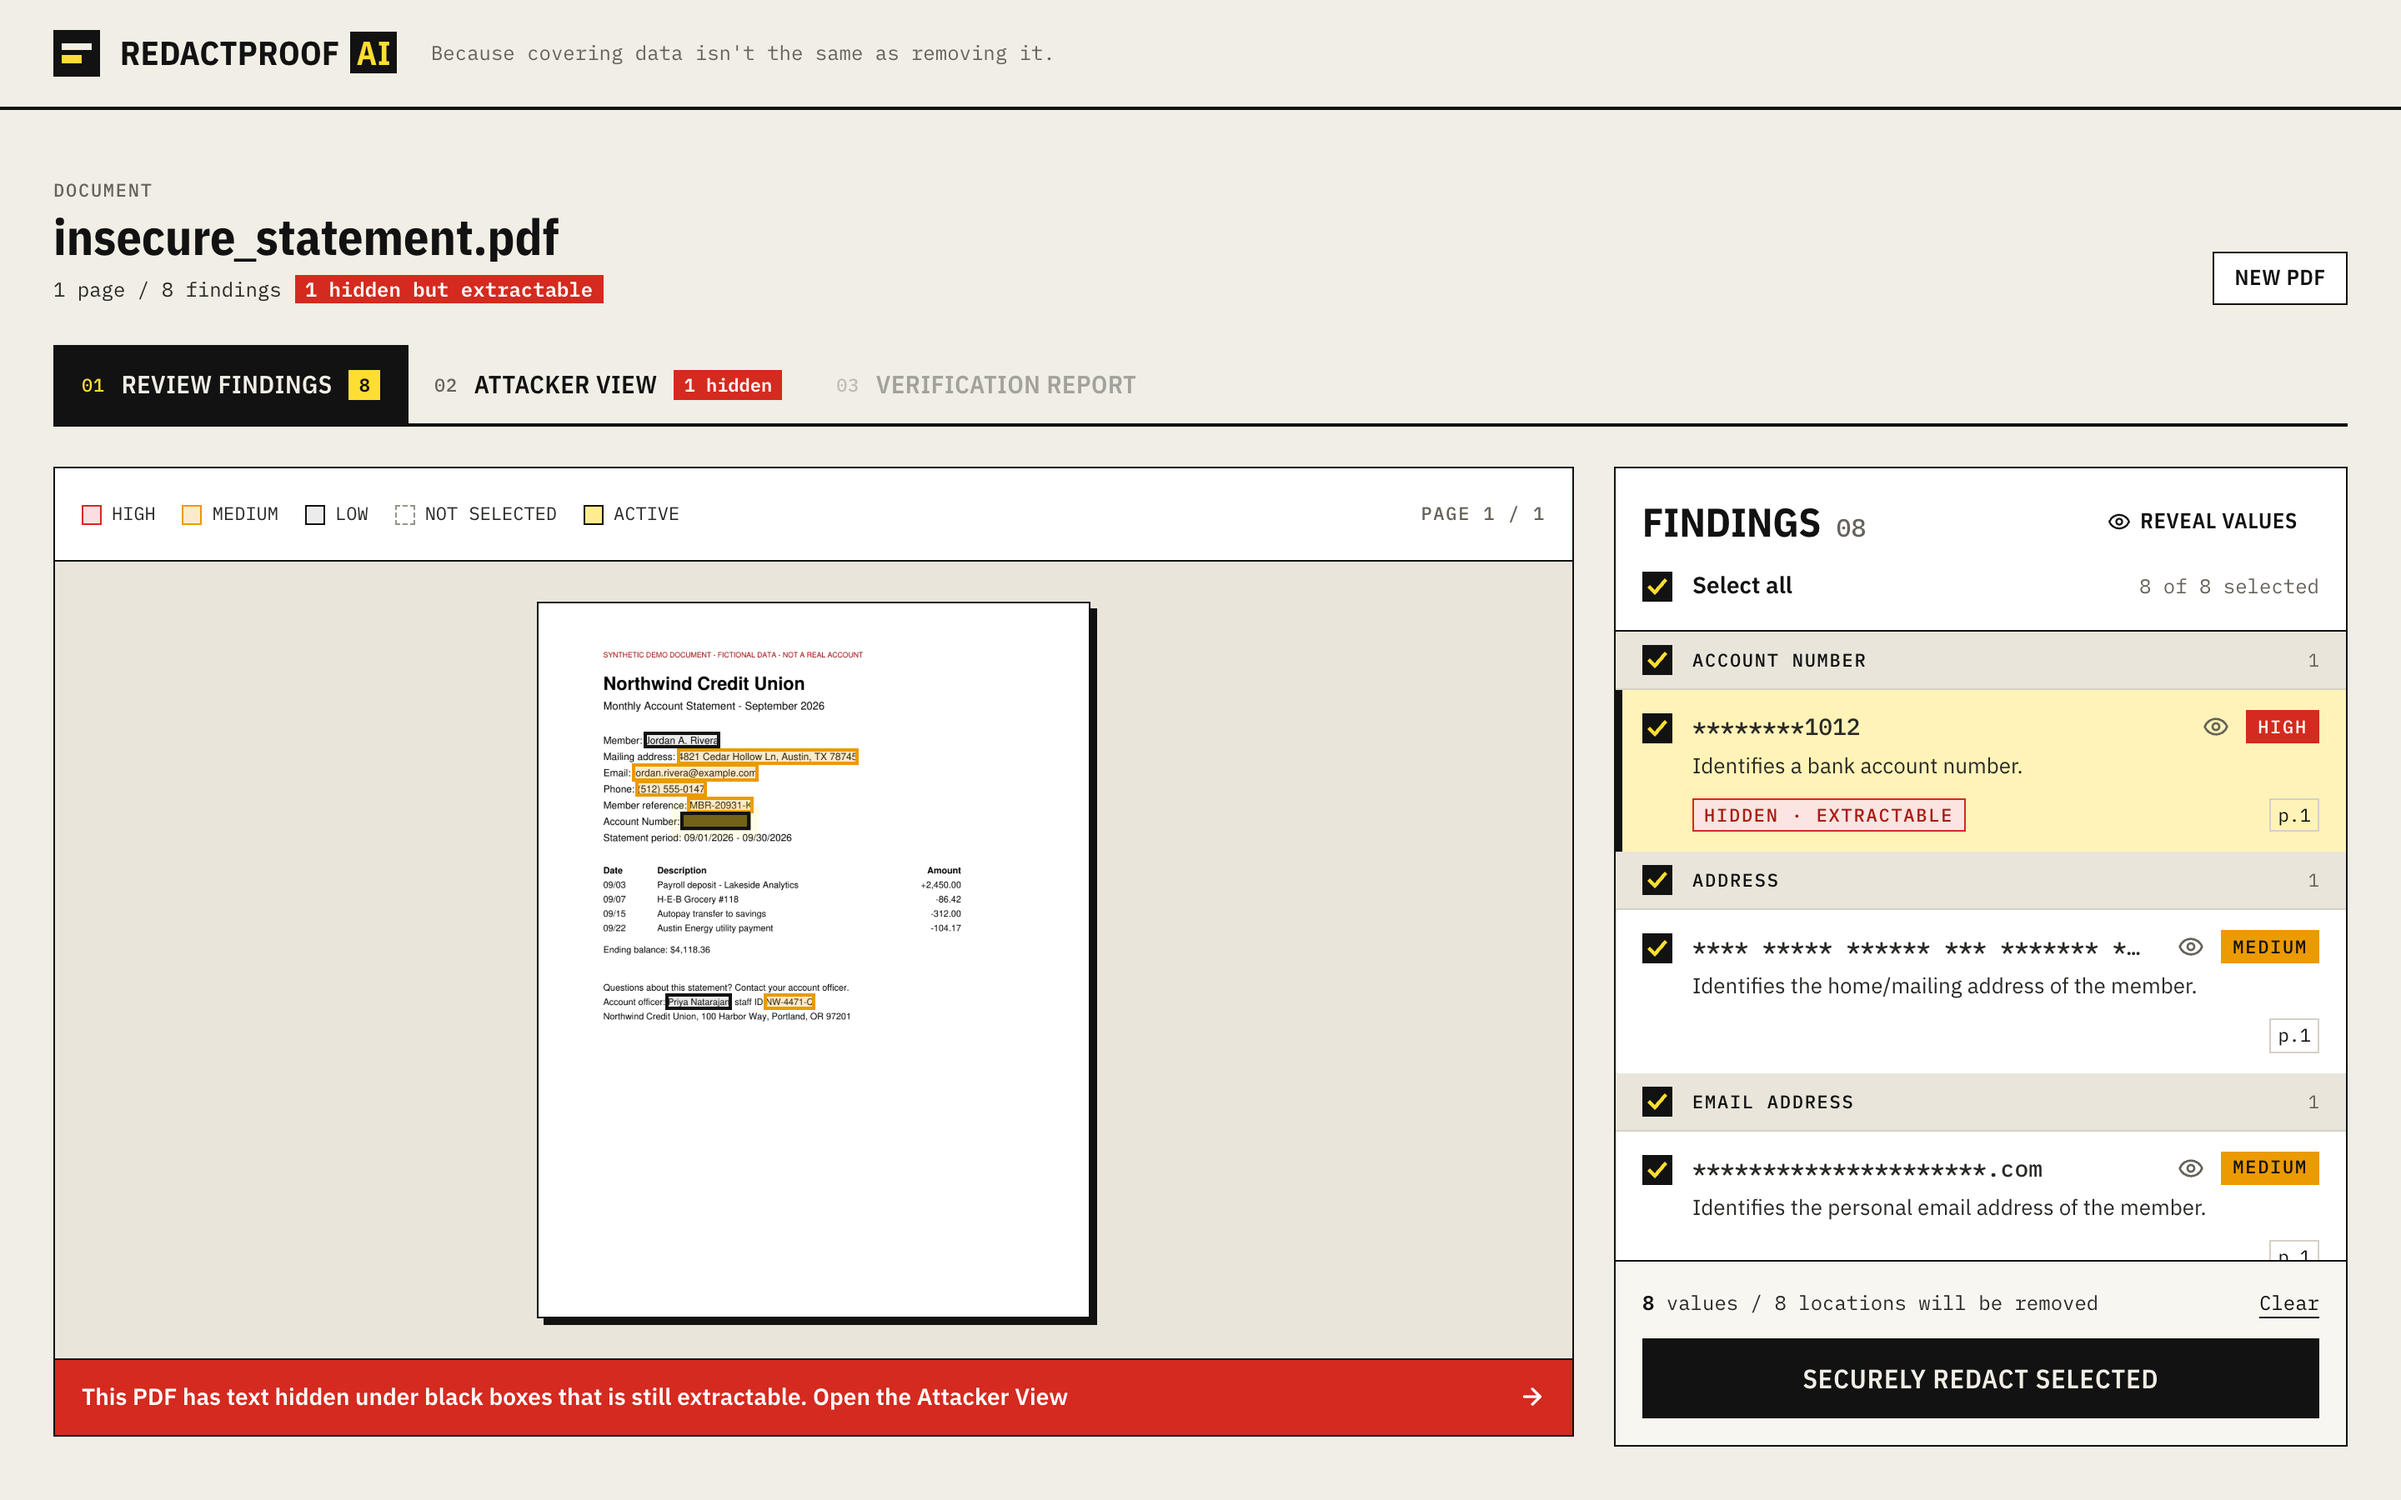
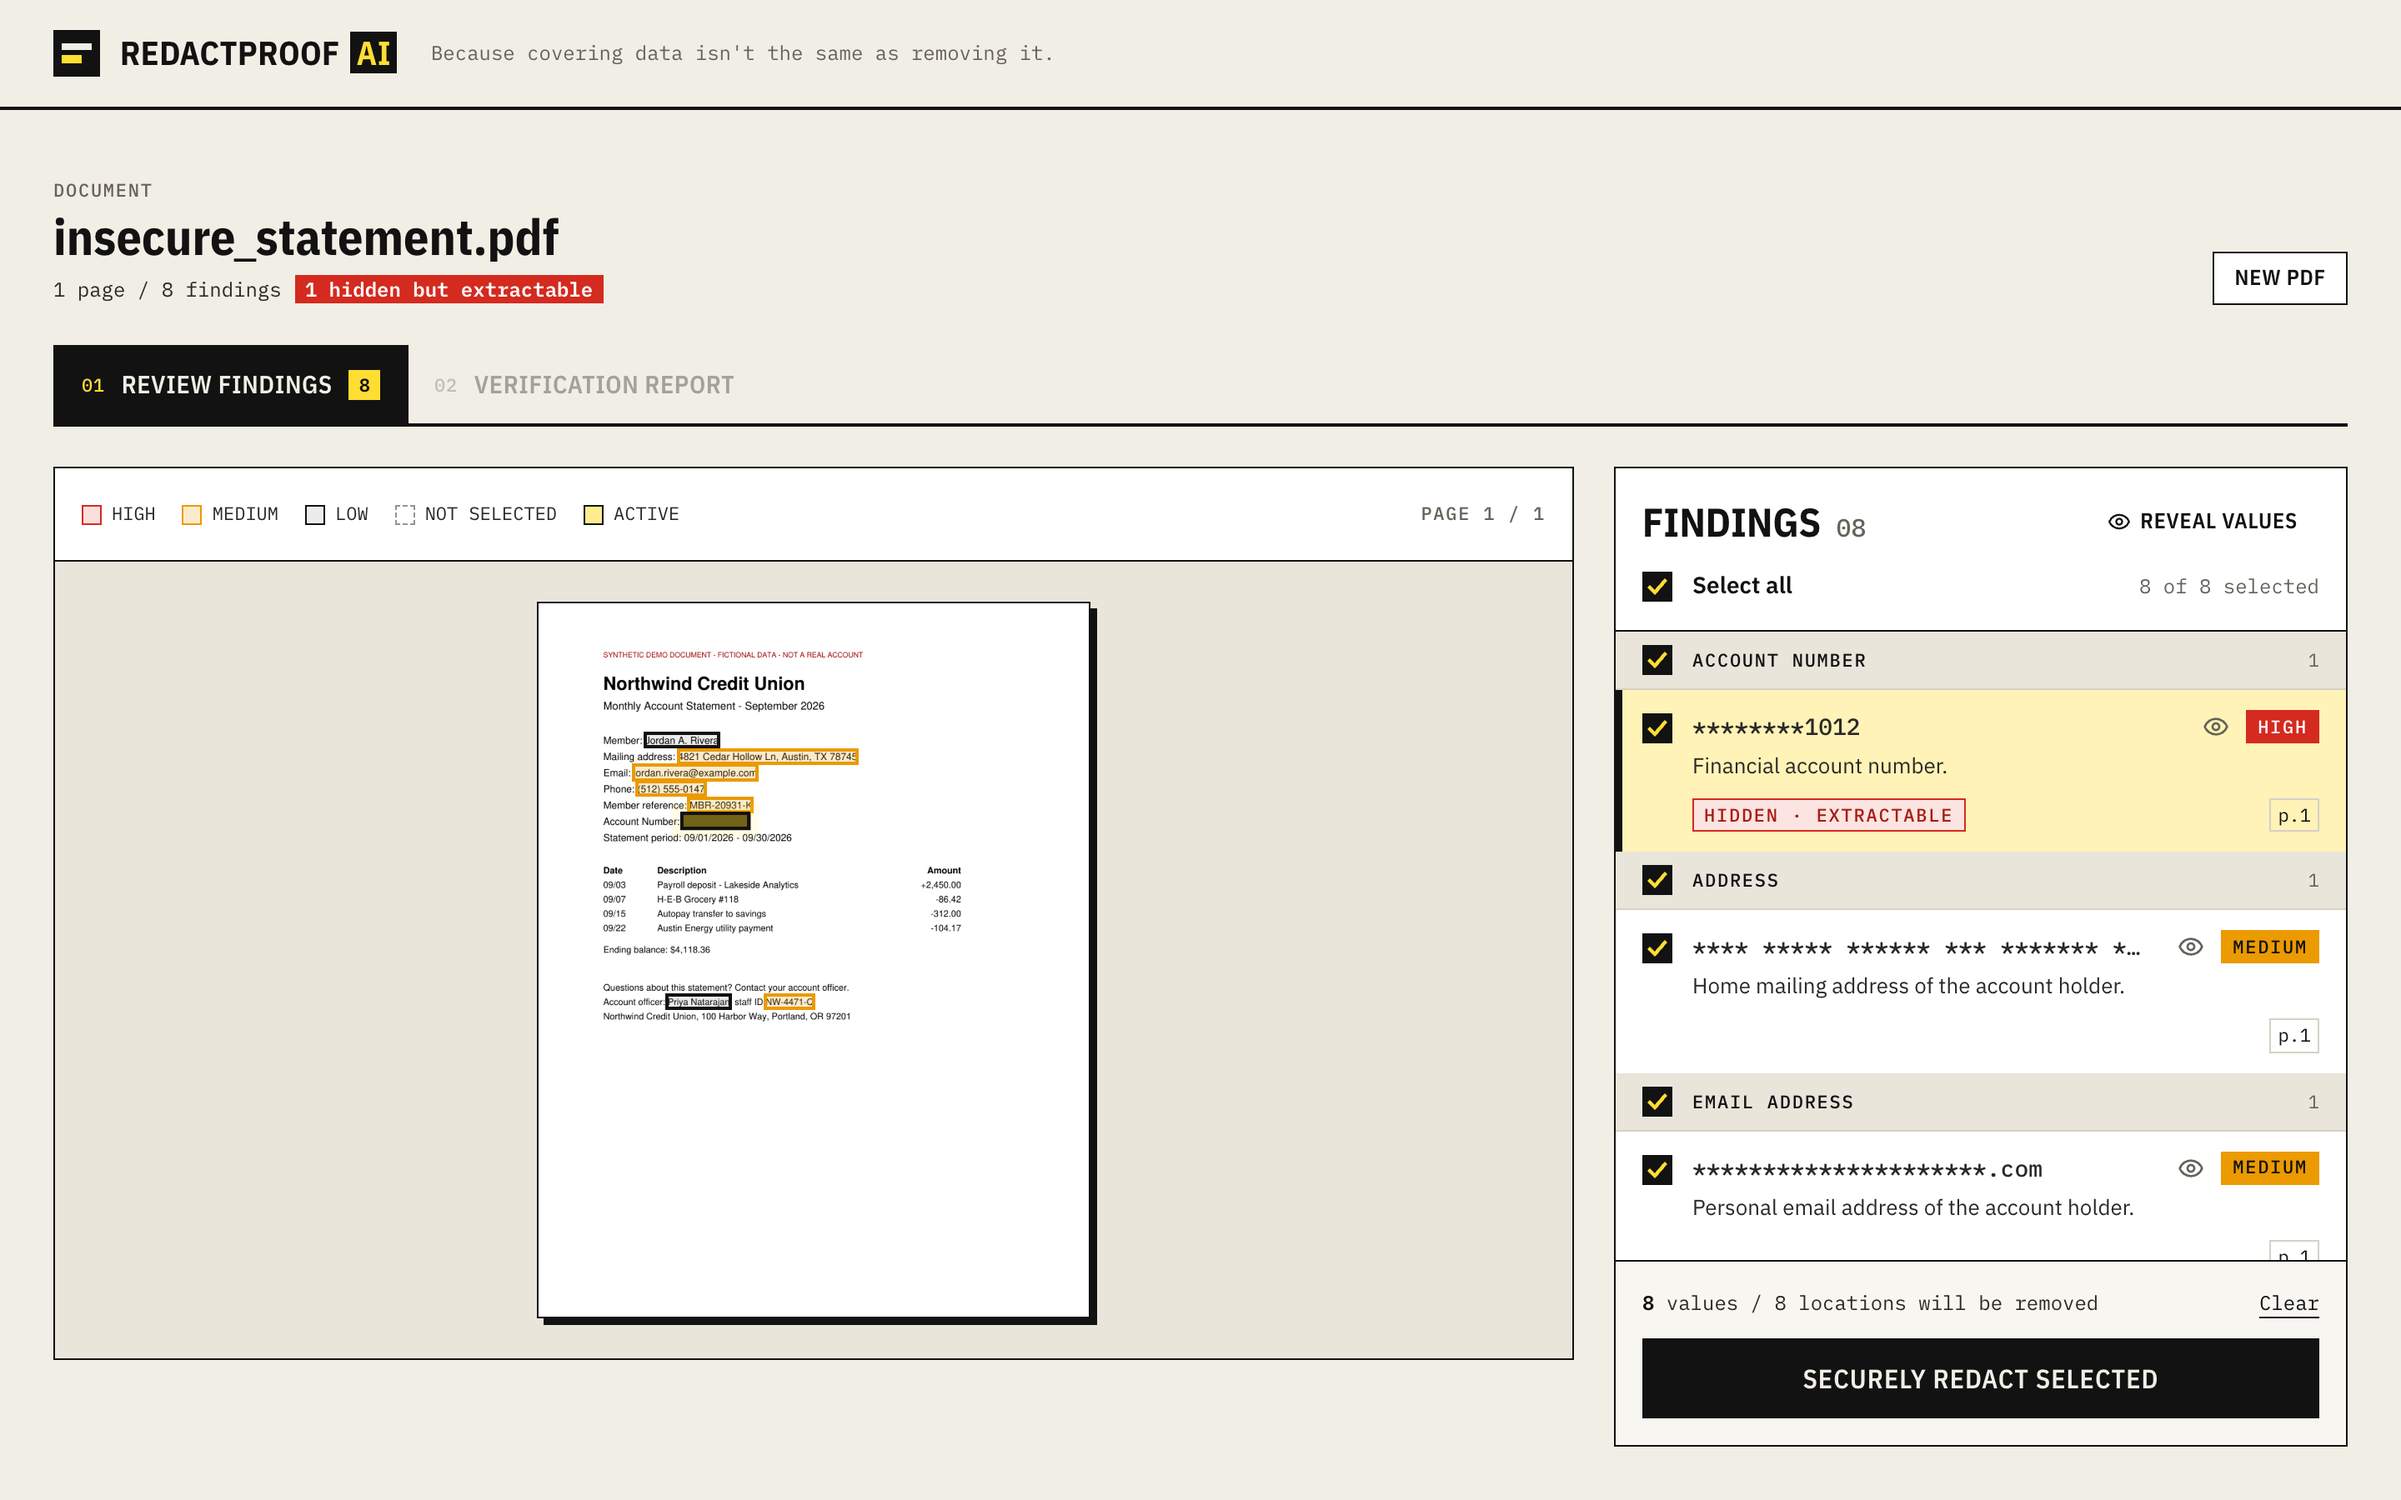
Remove the Attacker View tab
- Drop the Attacker View (visual vs. extracted text, reveal, before/after
  text) and the review-screen banner that linked to it
- Tabs are now Review findings and Verification report
- Hidden-but-extractable findings are still labeled and counted
- Remove helpers only the Attacker View used; update README, tests,
  screenshots

diff --git a/frontend/src/components/Workspace.tsx b/frontend/src/components/Workspace.tsx
@@ -1,15 +1,13 @@
 import { useRef, useState, type KeyboardEvent } from 'react'
-import { ArrowRight } from 'lucide-react'
 import type { AnalysisResponse, RedactionResult } from '../api/types'
 import { api } from '../api/client'
-import { AttackerView } from './AttackerView'
 import { DocumentViewer } from './DocumentViewer'
 import { FindingsSidebar } from './FindingsSidebar'
 import { RedactionControls } from './RedactionControls'
 import { VerificationReport } from './VerificationReport'
 import { Button, PageNav, Swatch, cx } from './ui'
 
-export type Tab = 'review' | 'attacker' | 'report'
+export type Tab = 'review' | 'report'
 
 interface WorkspaceProps {
   analysis: AnalysisResponse
@@ -29,7 +27,6 @@ interface TabDef {
   id: Tab
   label: string
   badge?: string
-  alert?: boolean
   disabled?: boolean
 }
 
@@ -51,7 +48,6 @@ export function Workspace(props: WorkspaceProps) {
 
   const tabs: TabDef[] = [
     { id: 'review', label: 'Review findings', badge: String(analysis.findings.length) },
-    { id: 'attacker', label: 'Attacker view', badge: hiddenCount > 0 ? `${hiddenCount} hidden` : undefined, alert: true },
     { id: 'report', label: 'Verification report', disabled: !result },
   ]
 
@@ -109,16 +105,6 @@ export function Workspace(props: WorkspaceProps) {
                   reservedHeight={470}
                 />
               </div>
-              {hiddenCount > 0 && (
-                <button
-                  type="button"
-                  onClick={() => onTabChange('attacker')}
-                  className="group flex w-full items-center gap-3 border-t-[1.5px] border-ink bg-danger px-4 py-3 text-left text-[14px] font-semibold text-white hover:bg-danger-ink"
-                >
-                  <span className="flex-1">This PDF has text hidden under black boxes that is still extractable. Open the Attacker View</span>
-                  <ArrowRight className="size-4 shrink-0 transition-transform group-hover:translate-x-1" strokeWidth={2.5} aria-hidden />
-                </button>
-              )}
             </section>
             <FindingsSidebar
               findings={analysis.findings}
@@ -149,7 +135,6 @@ export function Workspace(props: WorkspaceProps) {
             />
           </div>
         )}
-        {tab === 'attacker' && <AttackerView analysis={analysis} result={result} page={page} onPageChange={setPage} />}
         {tab === 'report' && result && (
           <VerificationReport
             analysis={analysis}
@@ -180,7 +165,7 @@ function TabBar({ tabs, value, onChange }: { tabs: TabDef[]; value: Tab; onChang
 
   return (
     <div role="tablist" aria-label="Workspace" onKeyDown={onKeyDown} className="flex overflow-x-auto border-b-2 border-ink">
-      {tabs.map(({ id, label, badge, alert, disabled }, i) => {
+      {tabs.map(({ id, label, badge, disabled }, i) => {
         const selected = id === value
         return (
           <button
@@ -209,7 +194,7 @@ function TabBar({ tabs, value, onChange }: { tabs: TabDef[]; value: Tab; onChang
               <span
                 className={cx(
                   'px-1.5 py-px font-mono text-[11px] font-semibold tracking-normal normal-case',
-                  alert ? 'bg-danger text-white' : selected ? 'bg-marker text-ink' : 'bg-surface-3 text-ink',
+                  selected ? 'bg-marker text-ink' : 'bg-surface-3 text-ink',
                 )}
               >
                 {badge}

diff --git a/frontend/src/utils/findings.test.ts b/frontend/src/utils/findings.test.ts
@@ -1,6 +1,6 @@
 import { describe, expect, it } from 'vitest'
 import type { Finding } from '../api/types'
-import { bboxToPercent, groupFindings, segmentText, sourceKind } from './findings'
+import { bboxToPercent, groupFindings, sourceKind } from './findings'
 
 function finding(overrides: Partial<Finding>): Finding {
   return {
@@ -33,33 +33,6 @@ describe('bboxToPercent', () => {
   it('clamps padding to the page edges', () => {
     const style = bboxToPercent([0, 0, 612, 792], 612, 792, 4)
     expect(style).toEqual({ left: '0%', top: '0%', width: '100%', height: '100%' })
-  })
-})
-
-describe('segmentText', () => {
-  const account = finding({ id: 'a', text: '987654321012' })
-  const email = finding({ id: 'e', text: 'jo@example.com' })
-
-  it('marks every occurrence of each value', () => {
-    const segments = segmentText('Acct 987654321012\nMail jo@example.com\nAgain 987654321012', [account, email])
-    expect(segments.map((s) => [s.text, s.finding?.id])).toEqual([
-      ['Acct ', undefined],
-      ['987654321012', 'a'],
-      ['\nMail ', undefined],
-      ['jo@example.com', 'e'],
-      ['\nAgain ', undefined],
-      ['987654321012', 'a'],
-    ])
-  })
-
-  it('prefers the longer value when matches overlap', () => {
-    const short = finding({ id: 's', text: '4321' })
-    const segments = segmentText('No. 987654321012', [short, account])
-    expect(segments.map((s) => s.finding?.id)).toEqual([undefined, 'a'])
-  })
-
-  it('returns plain text when nothing matches', () => {
-    expect(segmentText('nothing here', [account])).toEqual([{ text: 'nothing here' }])
   })
 })
 

diff --git a/frontend/src/utils/findings.ts b/frontend/src/utils/findings.ts
@@ -62,39 +62,6 @@ export function bboxToPercent(bbox: BBox, pageWidth: number, pageHeight: number,
   }
 }
 
-export interface TextSegment {
-  text: string
-  finding?: Finding
-}
-
-/**
- * Splits extracted page text into plain runs and runs that are exactly a finding's value.
- * Longer values win when matches overlap.
- */
-export function segmentText(text: string, findings: Finding[]): TextSegment[] {
-  const matches: { start: number; end: number; finding: Finding }[] = []
-  for (const finding of findings) {
-    if (!finding.text) continue
-    let from = 0
-    for (let at = text.indexOf(finding.text, from); at !== -1; at = text.indexOf(finding.text, from)) {
-      matches.push({ start: at, end: at + finding.text.length, finding })
-      from = at + finding.text.length
-    }
-  }
-  matches.sort((a, b) => a.start - b.start || b.end - a.end)
-
-  const segments: TextSegment[] = []
-  let cursor = 0
-  for (const m of matches) {
-    if (m.start < cursor) continue
-    if (m.start > cursor) segments.push({ text: text.slice(cursor, m.start) })
-    segments.push({ text: text.slice(m.start, m.end), finding: m.finding })
-    cursor = m.end
-  }
-  if (cursor < text.length) segments.push({ text: text.slice(cursor) })
-  return segments
-}
-
 export function pagesOf(finding: Finding): number[] {
   return [...new Set(finding.locations.map((l) => l.page))].sort((a, b) => a - b)
 }

diff --git a/frontend/src/components/VerificationReport.tsx b/frontend/src/components/VerificationReport.tsx
@@ -34,7 +34,7 @@ export function VerificationReport({ analysis, result, page, onPageChange, onBac
       <section aria-label="Verification status" className="border-[1.5px] border-ink bg-surface shadow-hard">
         <div className={cx('flex flex-col gap-6 px-6 py-6 md:flex-row md:items-center md:justify-between', passed ? 'bg-success text-white' : 'bg-danger text-white')}>
           <div role={passed ? 'status' : 'alert'}>
-            <p className="tag text-white/75">03 / Verification</p>
+            <p className="tag text-white/75">02 / Verification</p>
             <h2 className="mt-2 font-display text-[34px] leading-none font-bold uppercase sm:text-[44px]">
               {passed ? 'Targeted text verification passed' : 'Verification failed'}
             </h2>

diff --git a/frontend/src/components/ui.tsx b/frontend/src/components/ui.tsx
@@ -147,13 +147,3 @@ export function Logo() {
 export function Swatch({ className }: { className: string }) {
   return <span className={cx('inline-block size-3 shrink-0 border-[1.5px]', className)} aria-hidden />
 }
-
-/** Section heading with an optional index number, e.g. "02 Attacker view". */
-export function SectionTitle({ index, children, className }: { index?: string; children: ReactNode; className?: string }) {
-  return (
-    <h2 className={cx('flex items-baseline gap-3 font-display text-[28px] leading-none font-bold tracking-[-0.01em] text-ink uppercase', className)}>
-      {index && <span className="font-mono text-[13px] font-medium tracking-normal text-muted">{index}</span>}
-      {children}
-    </h2>
-  )
-}

diff --git a/frontend/src/components/FindingsSidebar.tsx b/frontend/src/components/FindingsSidebar.tsx
@@ -75,8 +75,8 @@ export function FindingsSidebar({ findings, selectedIds, activeId, disabled, onS
           <div className="p-6">
             <p className="font-display text-[20px] font-bold text-ink uppercase">No sensitive values detected</p>
             <p className="mt-2 text-[14px] leading-relaxed text-body">
-              Neither detector flagged anything in this PDF's text. That isn't proof the document is clean — check the
-              Attacker View to see everything a machine can extract.
+              Nothing in this PDF's text was flagged. That isn't proof the document is clean — review it before you share
+              it.
             </p>
           </div>
         ) : (

diff --git a/frontend/README.md b/frontend/README.md
@@ -20,7 +20,7 @@ The backend's CORS default allows `http://localhost:5173`, so keep that port.
 | `VITE_API_BASE_URL` | `http://localhost:8000` | Backend base URL. All `preview_url` / `download_url` values from the API are prefixed with it. |
 | `VITE_USE_MOCK` | `false` | `true` runs on built-in sample data with no backend. For UI work only — a banner and labels mark everything as mock. Never use it for the demo. |
 
-Other scripts: `npm run build`, `npm run typecheck`, `npm test` (unit tests for bbox scaling, text segmentation, grouping).
+Other scripts: `npm run build`, `npm run typecheck`, `npm test` (unit tests for bbox scaling, grouping, source classification).
 
 ## Structure
 
@@ -31,7 +31,7 @@ src/
     client.ts      the single API client (fetch); `api` switches to mock when VITE_USE_MOCK=true
     errors.ts      ApiError — { error: { code, message } } plus NETWORK_ERROR
     mock.ts        labeled mock service (SVG page, no Gemini)
-  utils/findings.ts  labels, grouping, bbox → % positioning, extracted-text segmentation
+  utils/findings.ts  labels, grouping, bbox → % positioning
   components/
     AppShell             header, backend-offline badge, mock banner
     UploadZone           Screen A: drag-and-drop, client-side checks, analyzing state
@@ -40,7 +40,6 @@ src/
     FindingsSidebar      grouped findings, select all / per group, mask + reveal
     FindingCard          one finding: masked value, risk, sources, locations
     RedactionControls    Screen D: "Securely Redact Selected"
-    AttackerView         Screen C: visual vs extracted text, before and after
     VerificationReport   Screen E: status, counts, limitations, download
     BeforeAfterViewer    original vs redacted previews
 ```
@@ -63,7 +62,7 @@ To view one: `git checkout <tag>`. To bring one back on the branch: `git restore
 
 - **Highlights** come only from backend `locations[].bbox` (PDF points, top-left origin). Each box is placed as a percentage of `page.width`/`page.height` over an image sized with the page's aspect ratio — equivalent to `scale = displayWidth / page.width` and accurate at any size. A finding is one value; all of its locations are drawn, and the `p.N` chips jump to each page.
 - **Masking**: the UI shows `display` by default; `text` appears only after the user reveals it.
-- **Attacker View** renders `pages[].extracted_text` from `/api/analyze` (before) and from `/api/redact` (after). The black-box warning only appears when the backend reports `visually_hidden: true`.
+- **Hidden text**: there is no Attacker View tab (product decision), so `pages[].extracted_text` isn't displayed. Findings the backend reports as `visually_hidden: true` are labeled “hidden · extractable”, and the document header counts them.
 - **Verification**: success is shown only when `verification.status === "passed"`, worded as "Targeted text verification passed". Failure lists `remaining`, and the download is labeled unverified.
 - **Gemini is not named anywhere in the UI**, and there is no privacy notice, model badge or list of PDF limits (product decision). The only Gemini field read is `gemini_status`: when it isn't `ok`, the findings panel shows a neutral “contextual analysis was unavailable” notice so users know results are pattern-only. Limits are still enforced, and the error messages explain them when a file is rejected.
 - **Errors** show the backend's `message`. `SESSION_EXPIRED_OR_NOT_FOUND` locks the workspace and offers "Upload again"; a failed preview image shows a placeholder.
